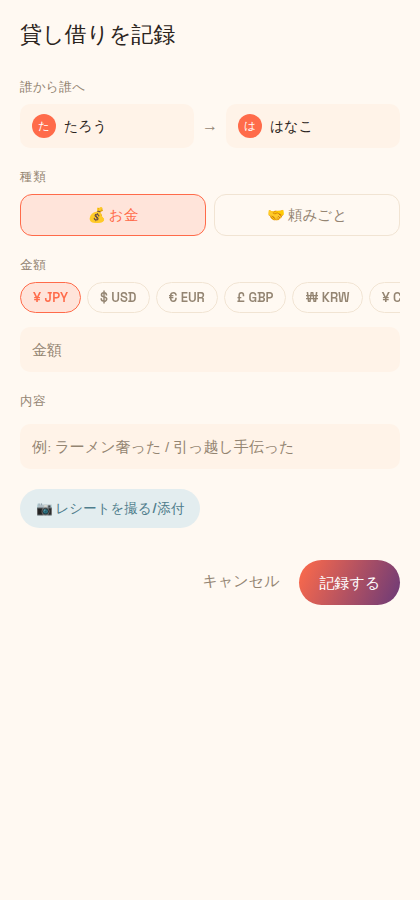
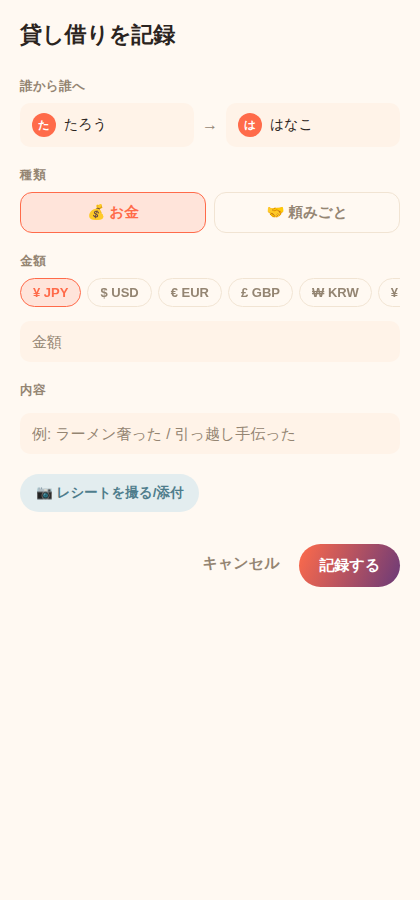
kashikari mobile: iOS標準フォント(SF Pro / San Francisco)に切り替え
「iOSの標準UIで使われているSF Proを使ってほしい」という指示への対応。

- Google Fonts(Manrope・Space Grotesk)の読み込みをやめ、OSのシステム
  フォントに切り替えた。fontFamilyを指定しなければiOSは自動でSan
  Francisco、Androidは自動でRobotoでレンダリングする。SF Pro自体の
  フォントファイルはAppleがiOS以外への配布を制限しているため同梱
  できないが、この方法ならOS標準搭載のものを使うのでライセンス上の
  問題がない
- src/theme.tsのfontsトークンを、文字列(フォントファミリー名)から
  {fontFamily: undefined, fontWeight} のオブジェクトに変更。書体を
  1系統に絞る代わりに太さで見出し/本文を区別する、OS標準アプリと
  同じ考え方にした
- 14ファイルの `fontFamily: fonts.X` を `...fonts.X`(スプレッド)に
  一括置換
- App.tsxからuseFonts呼び出しを削除(読み込み待ちが不要になったため
  起動が速くなる)。不要になった@expo-google-fonts/manrope、
  @expo-google-fonts/space-grotesk、expo-fontを削除
- 注意: この開発サンドボックス(Linux)にはSan Francisco自体が
  インストールされていないため、docs/screenshots/のWeb版デモ画面は
  代替フォントで表示されている。実機のiPhoneでは正しくSF Proになる

diff --git a/personal-side-projects/kashikari/mobile/src/screens/GroupScreen.tsx b/personal-side-projects/kashikari/mobile/src/screens/GroupScreen.tsx
@@ -161,9 +161,9 @@ const styles = StyleSheet.create({
   wrap: { flex: 1, backgroundColor: colors.bg },
   list: { paddingHorizontal: 20, paddingBottom: 100 },
   headerRow: { marginTop: 44, marginBottom: 4, flexDirection: 'row', justifyContent: 'space-between', alignItems: 'center' },
-  back: { fontFamily: fonts.bodySemiBold, fontSize: 15, color: colors.accent },
-  leave: { fontFamily: fonts.bodyMedium, fontSize: 12.5, color: colors.muted },
-  title: { fontFamily: fonts.display, fontSize: 26, color: colors.ink, marginTop: 4, marginBottom: 14 },
+  back: { ...fonts.bodySemiBold, fontSize: 15, color: colors.accent },
+  leave: { ...fonts.bodyMedium, fontSize: 12.5, color: colors.muted },
+  title: { ...fonts.display, fontSize: 26, color: colors.ink, marginTop: 4, marginBottom: 14 },
   memberStrip: { flexDirection: 'row', flexWrap: 'wrap', gap: 8, marginBottom: 18 },
   memberChip: {
     flexDirection: 'row',
@@ -177,7 +177,7 @@ const styles = StyleSheet.create({
     borderWidth: 1,
     borderColor: colors.line,
   },
-  memberName: { fontFamily: fonts.bodySemiBold, fontSize: 13, color: colors.ink },
+  memberName: { ...fonts.bodySemiBold, fontSize: 13, color: colors.ink },
   inviteChip: {
     borderWidth: 1.5,
     borderColor: colors.muted,
@@ -187,14 +187,14 @@ const styles = StyleSheet.create({
     paddingHorizontal: 14,
     justifyContent: 'center',
   },
-  inviteChipText: { fontFamily: fonts.bodySemiBold, fontSize: 13, color: colors.muted },
+  inviteChipText: { ...fonts.bodySemiBold, fontSize: 13, color: colors.muted },
   tabs: { flexDirection: 'row', backgroundColor: colors.surface2, borderRadius: 12, padding: 4, marginBottom: 22 },
   tabBtn: { flex: 1, paddingVertical: 9, borderRadius: 9, alignItems: 'center' },
   tabBtnActive: { backgroundColor: colors.surface, shadowColor: '#3c2814', shadowOpacity: 0.08, shadowRadius: 6, shadowOffset: { width: 0, height: 2 }, elevation: 1 },
-  tabText: { fontFamily: fonts.bodySemiBold, fontSize: 14, color: colors.muted },
+  tabText: { ...fonts.bodySemiBold, fontSize: 14, color: colors.muted },
   tabTextActive: { color: colors.ink },
   sectionTitle: {
-    fontFamily: fonts.bodySemiBold,
+    ...fonts.bodySemiBold,
     fontSize: 12.5,
     color: colors.muted,
     textTransform: 'uppercase',
@@ -202,14 +202,14 @@ const styles = StyleSheet.create({
     marginBottom: 4,
   },
   dateHeader: {
-    fontFamily: fonts.bodySemiBold,
+    ...fonts.bodySemiBold,
     fontSize: 12.5,
     color: colors.muted,
     marginTop: 14,
     marginBottom: 2,
   },
   settledToggle: { alignSelf: 'flex-start', marginBottom: 6 },
-  settledToggleText: { fontFamily: fonts.bodyMedium, fontSize: 13, color: colors.accent },
+  settledToggleText: { ...fonts.bodyMedium, fontSize: 13, color: colors.accent },
   hairline: { height: 1, backgroundColor: colors.line },
-  emptyNote: { fontFamily: fonts.body, fontSize: 14.5, color: colors.muted, textAlign: 'center', paddingVertical: 24 },
+  emptyNote: { ...fonts.body, fontSize: 14.5, color: colors.muted, textAlign: 'center', paddingVertical: 24 },
 });

diff --git a/personal-side-projects/kashikari/mobile/src/demo/DemoGroupScreen.tsx b/personal-side-projects/kashikari/mobile/src/demo/DemoGroupScreen.tsx
@@ -163,11 +163,11 @@ export default function DemoGroupScreen({ onBack }: { onBack: () => void }) {
 const styles = StyleSheet.create({
   wrap: { flex: 1, backgroundColor: colors.bg },
   demoBanner: { backgroundColor: colors.favor, marginHorizontal: -20, paddingVertical: 8, paddingHorizontal: 16, paddingTop: 44, marginBottom: 8 },
-  demoBannerText: { fontFamily: fonts.bodySemiBold, fontSize: 12, color: '#fff', textAlign: 'center' },
+  demoBannerText: { ...fonts.bodySemiBold, fontSize: 12, color: '#fff', textAlign: 'center' },
   list: { paddingHorizontal: 20, paddingBottom: 100 },
   headerRow: { marginBottom: 4 },
-  back: { fontFamily: fonts.bodySemiBold, fontSize: 15, color: colors.accent },
-  title: { fontFamily: fonts.display, fontSize: 26, color: colors.ink, marginTop: 4, marginBottom: 14 },
+  back: { ...fonts.bodySemiBold, fontSize: 15, color: colors.accent },
+  title: { ...fonts.display, fontSize: 26, color: colors.ink, marginTop: 4, marginBottom: 14 },
   memberStrip: { flexDirection: 'row', flexWrap: 'wrap', gap: 8, marginBottom: 18 },
   memberChip: {
     flexDirection: 'row',
@@ -181,7 +181,7 @@ const styles = StyleSheet.create({
     borderWidth: 1,
     borderColor: colors.line,
   },
-  memberName: { fontFamily: fonts.bodySemiBold, fontSize: 13, color: colors.ink },
+  memberName: { ...fonts.bodySemiBold, fontSize: 13, color: colors.ink },
   inviteChip: {
     borderWidth: 1.5,
     borderColor: colors.muted,
@@ -191,22 +191,22 @@ const styles = StyleSheet.create({
     paddingHorizontal: 14,
     justifyContent: 'center',
   },
-  inviteChipText: { fontFamily: fonts.bodySemiBold, fontSize: 13, color: colors.muted },
+  inviteChipText: { ...fonts.bodySemiBold, fontSize: 13, color: colors.muted },
   tabs: { flexDirection: 'row', backgroundColor: colors.surface2, borderRadius: 12, padding: 4, marginBottom: 22 },
   tabBtn: { flex: 1, paddingVertical: 9, borderRadius: 9, alignItems: 'center' },
   tabBtnActive: { backgroundColor: colors.surface, shadowColor: '#3c2814', shadowOpacity: 0.08, shadowRadius: 6, shadowOffset: { width: 0, height: 2 }, elevation: 1 },
-  tabText: { fontFamily: fonts.bodySemiBold, fontSize: 14, color: colors.muted },
+  tabText: { ...fonts.bodySemiBold, fontSize: 14, color: colors.muted },
   tabTextActive: { color: colors.ink },
   sectionTitle: {
-    fontFamily: fonts.bodySemiBold,
+    ...fonts.bodySemiBold,
     fontSize: 12.5,
     color: colors.muted,
     textTransform: 'uppercase',
     letterSpacing: 0.5,
     marginBottom: 4,
   },
-  dateHeader: { fontFamily: fonts.bodySemiBold, fontSize: 12.5, color: colors.muted, marginTop: 14, marginBottom: 2 },
+  dateHeader: { ...fonts.bodySemiBold, fontSize: 12.5, color: colors.muted, marginTop: 14, marginBottom: 2 },
   settledToggle: { alignSelf: 'flex-start', marginBottom: 6 },
-  settledToggleText: { fontFamily: fonts.bodyMedium, fontSize: 13, color: colors.accent },
+  settledToggleText: { ...fonts.bodyMedium, fontSize: 13, color: colors.accent },
   hairline: { height: 1, backgroundColor: colors.line },
 });

diff --git a/personal-side-projects/kashikari/mobile/src/components/AddEntrySheet.tsx b/personal-side-projects/kashikari/mobile/src/components/AddEntrySheet.tsx
@@ -231,8 +231,8 @@ function PersonPicker({
 const styles = StyleSheet.create({
   sheet: { flex: 1, backgroundColor: colors.bg },
   content: { padding: 20, gap: 8 },
-  title: { fontFamily: fonts.display, fontSize: 22, color: colors.ink, marginBottom: 8 },
-  label: { fontFamily: fonts.bodySemiBold, fontSize: 12.5, color: colors.muted, marginTop: 12, textTransform: 'uppercase', letterSpacing: 0.4 },
+  title: { ...fonts.display, fontSize: 22, color: colors.ink, marginBottom: 8 },
+  label: { ...fonts.bodySemiBold, fontSize: 12.5, color: colors.muted, marginTop: 12, textTransform: 'uppercase', letterSpacing: 0.4 },
   pickerRow: { flexDirection: 'row', alignItems: 'center', gap: 8 },
   personPicker: {
     flex: 1,
@@ -244,29 +244,29 @@ const styles = StyleSheet.create({
     paddingVertical: 10,
     paddingHorizontal: 12,
   },
-  personName: { fontFamily: fonts.bodyMedium, fontSize: 14, color: colors.ink, flexShrink: 1 },
+  personName: { ...fonts.bodyMedium, fontSize: 14, color: colors.ink, flexShrink: 1 },
   arrow: { color: colors.muted, fontSize: 16 },
   typeToggle: { flexDirection: 'row', gap: 8 },
   typeBtn: { flex: 1, borderWidth: 1.5, borderColor: colors.line, borderRadius: 12, paddingVertical: 10, alignItems: 'center' },
   typeBtnActiveMoney: { borderColor: colors.accent, backgroundColor: colors.accentSoft },
   typeBtnActiveFavor: { borderColor: colors.favor, backgroundColor: colors.favorSoft },
-  typeText: { fontFamily: fonts.bodySemiBold, fontSize: 14.5, color: colors.muted },
+  typeText: { ...fonts.bodySemiBold, fontSize: 14.5, color: colors.muted },
   currencyRow: { flexDirection: 'row' },
   currencyChip: { borderWidth: 1.5, borderColor: colors.line, borderRadius: 999, paddingVertical: 6, paddingHorizontal: 12, marginRight: 6 },
   currencyChipActive: { borderColor: colors.accent, backgroundColor: colors.accentSoft },
-  currencyText: { fontFamily: fonts.displayMedium, fontSize: 13, color: colors.muted },
+  currencyText: { ...fonts.displayMedium, fontSize: 13, color: colors.muted },
   input: {
     backgroundColor: colors.surface2,
     borderRadius: 10,
     paddingVertical: 12,
     paddingHorizontal: 12,
-    fontFamily: fonts.body,
+    ...fonts.body,
     fontSize: 15,
     color: colors.ink,
     marginTop: 6,
   },
   photoBtn: { backgroundColor: colors.favorSoft, borderRadius: 999, paddingVertical: 10, paddingHorizontal: 16, alignSelf: 'flex-start', marginTop: 12 },
-  photoBtnText: { fontFamily: fonts.bodySemiBold, fontSize: 13.5, color: colors.favor },
+  photoBtnText: { ...fonts.bodySemiBold, fontSize: 13.5, color: colors.favor },
   photoPreviewWrap: { marginTop: 10 },
   photoPreview: { width: 64, height: 64, borderRadius: 12 },
   photoRemove: {

diff --git a/personal-side-projects/kashikari/mobile/src/theme.ts b/personal-side-projects/kashikari/mobile/src/theme.ts
@@ -13,6 +13,14 @@
 // モダンなプロダクトでよく使われる個性のある書体)を、本文・ラベルは
 // 引き続きManrope(可読性重視)のまま。丸ゴシックのFredokaのような
 // 「子供っぽさ」を避けつつ、単一書体だった前回より性格を持たせる狙い。
+//
+// 6回目の見直し: 「iOS標準のSF Proを使ってほしい」という指示を受け、
+// Google FontsのWebフォント読み込みをやめ、OSのシステムフォントに切り替えた。
+// SF Proはフォントファイル自体をAppleが配布制限しているため同梱できないが、
+// fontFamilyを指定しなければiOSは自動でSan Francisco(SF Pro)、Androidは
+// 自動でRobotoを使ってレンダリングする。書体を1系統だけに絞る代わりに、
+// 太さ(fontWeight)で見出し/本文の区別をつける、というOS標準アプリと
+// 同じ考え方に変更した。
 
 export const colors = {
   bg: '#fff9f2',
@@ -38,12 +46,16 @@ export const colors = {
   danger: '#c1503f',
 } as const;
 
+// fontFamilyを指定しない = OS標準フォント(iOS: San Francisco / SF Pro、
+// Android: Roboto)。太さだけをトークンごとに変える。使う側は
+// `style={[..., fonts.display]}` のように展開して使う(fontFamilyと
+// fontWeightの2つのスタイルプロパティをまとめて持つオブジェクトのため)。
 export const fonts = {
-  display: 'SpaceGrotesk_700Bold',
-  displayMedium: 'SpaceGrotesk_600SemiBold',
-  body: 'Manrope_400Regular',
-  bodyMedium: 'Manrope_500Medium',
-  bodySemiBold: 'Manrope_600SemiBold',
+  display: { fontFamily: undefined, fontWeight: '700' } as const,
+  displayMedium: { fontFamily: undefined, fontWeight: '600' } as const,
+  body: { fontFamily: undefined, fontWeight: '400' } as const,
+  bodyMedium: { fontFamily: undefined, fontWeight: '500' } as const,
+  bodySemiBold: { fontFamily: undefined, fontWeight: '600' } as const,
 } as const;
 
 // 彩度・明度を揃えた4色のみ(主アクセントの色相違いバリエーション)。

diff --git a/personal-side-projects/kashikari/mobile/src/screens/GroupsScreen.tsx b/personal-side-projects/kashikari/mobile/src/screens/GroupsScreen.tsx
@@ -86,11 +86,11 @@ const styles = StyleSheet.create({
   wrap: { flex: 1, backgroundColor: colors.bg },
   header: { paddingTop: 60, paddingHorizontal: 20, paddingBottom: 12 },
   brandRow: { flexDirection: 'row', alignItems: 'center', gap: 10 },
-  wordmark: { fontFamily: fonts.display, fontSize: 28, color: colors.ink },
-  hello: { fontFamily: fonts.body, fontSize: 14, color: colors.muted, marginTop: 8 },
+  wordmark: { ...fonts.display, fontSize: 28, color: colors.ink },
+  hello: { ...fonts.body, fontSize: 14, color: colors.muted, marginTop: 8 },
   list: { paddingHorizontal: 20, paddingBottom: 24, gap: 10, flexGrow: 1 },
   empty: { alignItems: 'center', paddingTop: 60 },
-  emptyText: { fontFamily: fonts.body, fontSize: 14.5, color: colors.muted, textAlign: 'center', lineHeight: 22 },
+  emptyText: { ...fonts.body, fontSize: 14.5, color: colors.muted, textAlign: 'center', lineHeight: 22 },
   card: {
     flexDirection: 'row',
     alignItems: 'center',
@@ -105,8 +105,8 @@ const styles = StyleSheet.create({
     elevation: 2,
   },
   cardMain: { flex: 1 },
-  cardTitle: { fontFamily: fonts.bodySemiBold, fontSize: 16, color: colors.ink },
-  cardCode: { fontFamily: fonts.body, fontSize: 12.5, color: colors.muted, marginTop: 2 },
+  cardTitle: { ...fonts.bodySemiBold, fontSize: 16, color: colors.ink },
+  cardCode: { ...fonts.body, fontSize: 12.5, color: colors.muted, marginTop: 2 },
   actions: {
     flexDirection: 'row',
     justifyContent: 'space-between',

diff --git a/personal-side-projects/kashikari/mobile/App.tsx b/personal-side-projects/kashikari/mobile/App.tsx
@@ -1,13 +1,5 @@
 import { useEffect, useState } from 'react';
 import { StatusBar } from 'expo-status-bar';
-import {
-  useFonts as useManrope,
-  Manrope_400Regular,
-  Manrope_500Medium,
-  Manrope_600SemiBold,
-  Manrope_700Bold,
-} from '@expo-google-fonts/manrope';
-import { useFonts as useSpaceGrotesk, SpaceGrotesk_600SemiBold, SpaceGrotesk_700Bold } from '@expo-google-fonts/space-grotesk';
 
 import DemoApp from './src/demo/DemoApp';
 import GroupScreen from './src/screens/GroupScreen';
@@ -29,8 +21,6 @@ type Screen = { name: 'groups' } | { name: 'group'; group: Group };
 const DEMO_MODE = process.env.EXPO_PUBLIC_DEMO_MODE === '1';
 
 export default function App() {
-  const [manropeLoaded] = useManrope({ Manrope_400Regular, Manrope_500Medium, Manrope_600SemiBold, Manrope_700Bold });
-  const [spaceGroteskLoaded] = useSpaceGrotesk({ SpaceGrotesk_600SemiBold, SpaceGrotesk_700Bold });
   const { loading: authLoading, userId, profile, setDisplayName } = useAuth();
   const { groups, loading: groupsLoading, refresh, createGroup, joinGroup, leaveGroup } = useGroups(DEMO_MODE ? null : userId);
   const [screen, setScreen] = useState<Screen>({ name: 'groups' });
@@ -41,7 +31,7 @@ export default function App() {
     return () => clearTimeout(t);
   }, []);
 
-  if (!manropeLoaded || !spaceGroteskLoaded || !minSplashDone || (!DEMO_MODE && authLoading)) {
+  if (!minSplashDone || (!DEMO_MODE && authLoading)) {
     return <SplashScreen />;
   }
 

diff --git a/personal-side-projects/kashikari/mobile/src/screens/OnboardingScreen.tsx b/personal-side-projects/kashikari/mobile/src/screens/OnboardingScreen.tsx
@@ -52,10 +52,10 @@ export default function OnboardingScreen({
 const styles = StyleSheet.create({
   wrap: { flex: 1, backgroundColor: colors.bg, padding: 24, justifyContent: 'center' },
   markWrap: { marginBottom: 16 },
-  wordmark: { fontFamily: fonts.display, fontSize: 38, color: colors.ink },
-  tagline: { fontFamily: fonts.body, fontSize: 14.5, color: colors.muted, marginTop: 8, marginBottom: 32 },
+  wordmark: { ...fonts.display, fontSize: 38, color: colors.ink },
+  tagline: { ...fonts.body, fontSize: 14.5, color: colors.muted, marginTop: 8, marginBottom: 32 },
   label: {
-    fontFamily: fonts.bodySemiBold,
+    ...fonts.bodySemiBold,
     fontSize: 12.5,
     color: colors.muted,
     textTransform: 'uppercase',
@@ -67,12 +67,12 @@ const styles = StyleSheet.create({
     borderRadius: 12,
     paddingVertical: 14,
     paddingHorizontal: 16,
-    fontFamily: fonts.body,
+    ...fonts.body,
     fontSize: 17,
     color: colors.ink,
     borderWidth: 1.5,
     borderColor: colors.line,
   },
-  error: { color: colors.danger, fontFamily: fonts.body, fontSize: 13, marginTop: 8 },
+  error: { color: colors.danger, ...fonts.body, fontSize: 13, marginTop: 8 },
   button: { marginTop: 24, alignSelf: 'flex-start', paddingHorizontal: 28 },
 });

diff --git a/personal-side-projects/kashikari/mobile/src/components/BalanceCard.tsx b/personal-side-projects/kashikari/mobile/src/components/BalanceCard.tsx
@@ -63,18 +63,18 @@ const styles = StyleSheet.create({
     paddingVertical: 14,
   },
   pair: { flex: 1, flexDirection: 'row', alignItems: 'center', gap: 6, minWidth: 0 },
-  name: { fontFamily: fonts.bodyMedium, fontSize: 14.5, color: colors.ink, flexShrink: 1 },
-  me: { fontFamily: fonts.bodySemiBold },
+  name: { ...fonts.bodyMedium, fontSize: 14.5, color: colors.ink, flexShrink: 1 },
+  me: { ...fonts.bodySemiBold },
   arrow: { color: colors.muted },
   right: { flexDirection: 'row', alignItems: 'center', gap: 10 },
   amountBlock: { alignItems: 'flex-end' },
-  directionLabel: { fontFamily: fonts.bodyMedium, fontSize: 11, marginBottom: 1 },
-  amount: { fontFamily: fonts.display, fontSize: 19, flexShrink: 0 },
+  directionLabel: { ...fonts.bodyMedium, fontSize: 11, marginBottom: 1 },
+  amount: { ...fonts.display, fontSize: 19, flexShrink: 0 },
   settleBtn: {
     backgroundColor: colors.surface2,
     borderRadius: 999,
     paddingVertical: 6,
     paddingHorizontal: 10,
   },
-  settleText: { fontFamily: fonts.bodySemiBold, fontSize: 12, color: colors.muted },
+  settleText: { ...fonts.bodySemiBold, fontSize: 12, color: colors.muted },
 });

diff --git a/personal-side-projects/kashikari/mobile/src/components/GroupFormModal.tsx b/personal-side-projects/kashikari/mobile/src/components/GroupFormModal.tsx
@@ -65,16 +65,16 @@ export default function GroupFormModal({ visible, mode, onClose, onSubmit }: Pro
 const styles = StyleSheet.create({
   backdrop: { flex: 1, backgroundColor: 'rgba(20,15,10,0.45)', alignItems: 'center', justifyContent: 'center', padding: 24 },
   card: { width: '100%', backgroundColor: colors.surface, borderRadius: 18, padding: 20 },
-  title: { fontFamily: fonts.display, fontSize: 19, color: colors.ink, marginBottom: 14 },
+  title: { ...fonts.display, fontSize: 19, color: colors.ink, marginBottom: 14 },
   input: {
     backgroundColor: colors.surface2,
     borderRadius: 10,
     paddingVertical: 12,
     paddingHorizontal: 14,
-    fontFamily: fonts.body,
+    ...fonts.body,
     fontSize: 16,
     color: colors.ink,
   },
-  error: { color: colors.danger, fontFamily: fonts.body, fontSize: 13, marginTop: 8 },
+  error: { color: colors.danger, ...fonts.body, fontSize: 13, marginTop: 8 },
   actions: { flexDirection: 'row', justifyContent: 'flex-end', gap: 8, marginTop: 18 },
 });

diff --git a/personal-side-projects/kashikari/mobile/src/components/NetSummary.tsx b/personal-side-projects/kashikari/mobile/src/components/NetSummary.tsx
@@ -40,14 +40,14 @@ const styles = StyleSheet.create({
   line: { paddingVertical: 6 },
   lineDivider: { marginTop: 6, borderTopWidth: 1, borderTopColor: 'rgba(255,255,255,0.22)', paddingTop: 14 },
   label: {
-    fontFamily: fonts.bodySemiBold,
+    ...fonts.bodySemiBold,
     fontSize: 12.5,
     color: 'rgba(255,255,255,0.85)',
     textTransform: 'uppercase',
     letterSpacing: 0.6,
     marginBottom: 2,
   },
-  amount: { fontFamily: fonts.display, fontSize: 42, color: '#fff', letterSpacing: -0.5 },
+  amount: { ...fonts.display, fontSize: 42, color: '#fff', letterSpacing: -0.5 },
   settledWrap: {
     backgroundColor: colors.surface,
     borderRadius: 20,
@@ -56,5 +56,5 @@ const styles = StyleSheet.create({
     marginBottom: 8,
   },
   emoji: { fontSize: 30, marginBottom: 6 },
-  settledText: { fontFamily: fonts.bodyMedium, fontSize: 15, color: colors.muted },
+  settledText: { ...fonts.bodyMedium, fontSize: 15, color: colors.muted },
 });

diff --git a/personal-side-projects/kashikari/mobile/src/components/EntryRow.tsx b/personal-side-projects/kashikari/mobile/src/components/EntryRow.tsx
@@ -90,11 +90,11 @@ const styles = StyleSheet.create({
   badge: { width: 36, height: 36, borderRadius: 11, alignItems: 'center', justifyContent: 'center' },
   badgeEmoji: { fontSize: 16 },
   main: { flex: 1, minWidth: 0 },
-  who: { fontFamily: fonts.bodyMedium, fontSize: 14.5, color: colors.ink },
+  who: { ...fonts.bodyMedium, fontSize: 14.5, color: colors.ink },
   arrow: { color: colors.muted },
-  desc: { fontFamily: fonts.body, fontSize: 12, color: colors.muted, marginTop: 2 },
+  desc: { ...fonts.body, fontSize: 12, color: colors.muted, marginTop: 2 },
   thumb: { width: 34, height: 34, borderRadius: 9 },
-  amount: { fontFamily: fonts.display, fontSize: 15 },
+  amount: { ...fonts.display, fontSize: 15 },
   strike: { textDecorationLine: 'line-through', opacity: 0.6 },
   menuBtn: { padding: 4 },
   menuDots: { fontSize: 18, color: colors.muted },

diff --git a/personal-side-projects/kashikari/mobile/src/components/PrimaryButton.tsx b/personal-side-projects/kashikari/mobile/src/components/PrimaryButton.tsx
@@ -53,7 +53,7 @@ const styles = StyleSheet.create({
   ghost: { backgroundColor: 'transparent', paddingVertical: 10, paddingHorizontal: 12 },
   disabled: { opacity: 0.4 },
   pressed: { transform: [{ scale: 0.97 }] },
-  text: { fontFamily: fonts.bodySemiBold, fontSize: 15 },
+  text: { ...fonts.bodySemiBold, fontSize: 15 },
   primaryText: { color: colors.accentInk },
   ghostText: { color: colors.muted },
 });
